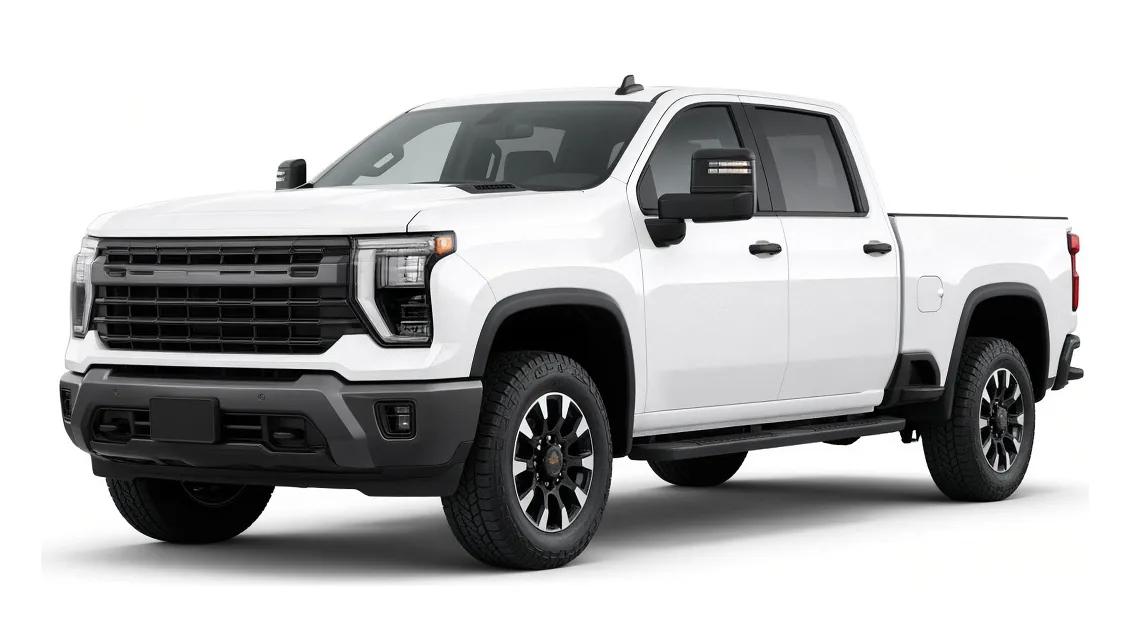
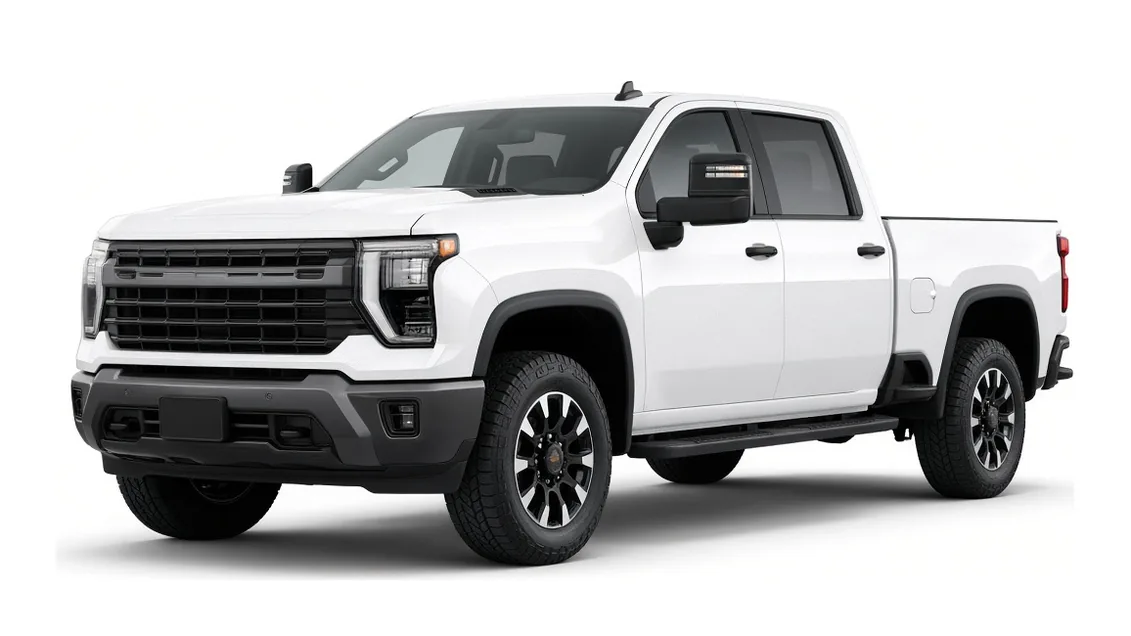
Fleet: studio photos for Ram 2500, Sprinter 3500, Suburban, Escalade ESV
Owner-supplied images, trimmed and framed the same way as the Silverado
(re-framed to match). F-250/F-350 and Transit Cargo keep their drawings
until photos arrive.

Claude-Session: https://claude.ai/code/session_01CGaCXmhQJRwQfzikJhBMVp

Changed region(s): [[0.0309, 0.1195, 0.9593, 0.9261], [0.4332, 0.4481, 0.557, 0.5079]]

diff --git a/src/data/fleet.js b/src/data/fleet.js
@@ -87,6 +87,7 @@ export const lineup = [
         key: "ram",
         name: "Ram 2500",
         years: "2025–2026",
+        photo: "/media/vehicles/ram.webp",
         specs: [["Class", "¾-ton heavy duty"], ["Trims", "Tradesman through Laramie"], ["Engine", "V8"], ["Bed", "Long or short"], ["Drivetrain", "4x4"]],
       },
     ],
@@ -97,7 +98,7 @@ export const lineup = [
     short: "Vans",
     use: "Tools and materials under a roof, a rolling shop for trades.",
     models: [
-      { key: "sprinter", name: "Mercedes-Benz Sprinter 3500", years: null, specs: [["Body", "Cargo van"], ["Engine", "Diesel"]] },
+      { key: "sprinter", name: "Mercedes-Benz Sprinter 3500", years: null, photo: "/media/vehicles/sprinter.webp", specs: [["Body", "Cargo van"], ["Engine", "Diesel"]] },
       { key: "transit", name: "Ford Transit Cargo", years: "2025–2026", specs: [["Body", "Cargo van"], ["Roof", "High or standard"]] },
     ],
   },
@@ -107,11 +108,12 @@ export const lineup = [
     short: "SUVs",
     use: "Owner walks, client visits, and getting the project team between sites.",
     models: [
-      { key: "suburban", name: "Chevrolet Suburban", years: "2025–2026", specs: [["Body", "Full-size SUV"], ["Seating", "Three rows"]] },
+      { key: "suburban", name: "Chevrolet Suburban", years: "2025–2026", photo: "/media/vehicles/suburban.webp", specs: [["Body", "Full-size SUV"], ["Seating", "Three rows"]] },
       {
         key: "escalade",
         name: "Cadillac Escalade / Escalade ESV",
         years: "2025–2026",
+        photo: "/media/vehicles/escalade.webp",
         specs: [["Body", "Full-size luxury SUV"], ["Length", "Standard or ESV (extended)"], ["Seating", "Three rows"]],
       },
     ],
